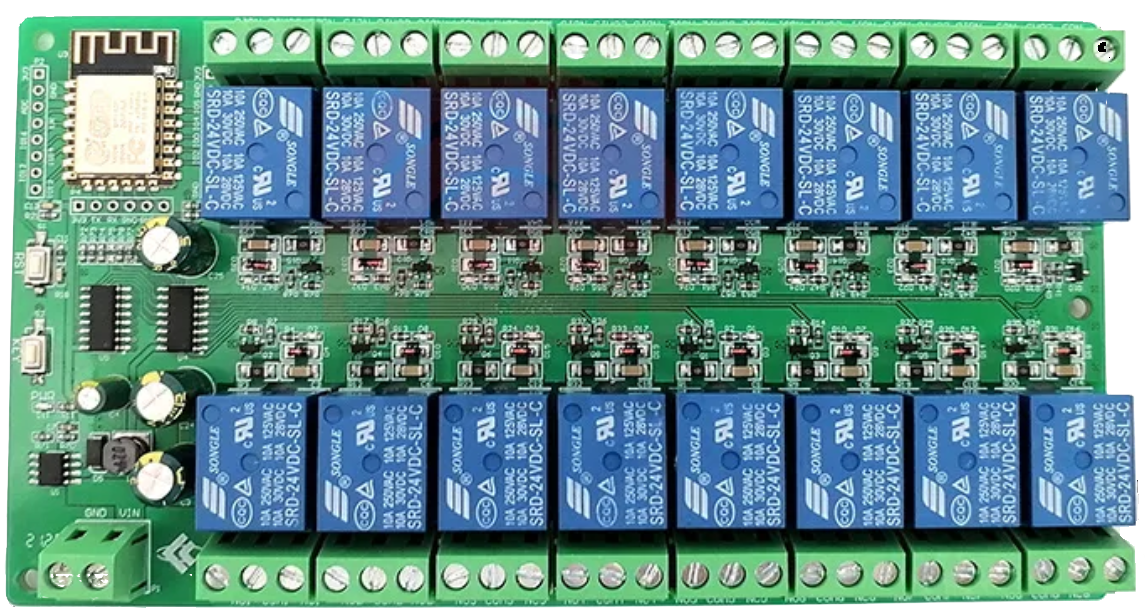
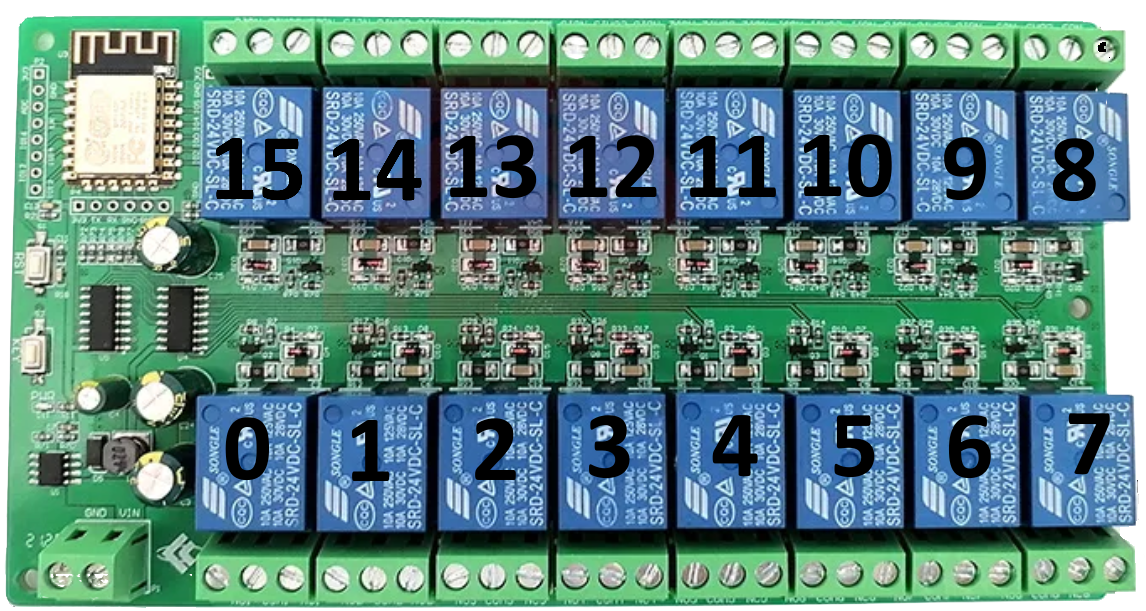
Updating readme, relais id's added and cleanup

diff --git a/esp12f/defaults.h b/esp12f/defaults.h
@@ -9,9 +9,9 @@ const uint8_t lift_count = 5;
 // Each lift uses 3 relais (up, down, lock).
 const uint8_t lifts[lift_count][3] = { {15,14,13},
                                        {12,11,10},
-                                       {9,8,6},
-                                       {5,4,3},
-                                       {2,1,0}
+                                       {9,8,7},
+                                       {6,5,4},
+                                       {3,2,1}
                                       };
 // Wifi connections
 // If you have more than one Wifi connection, change the 1 to the number of connections.

diff --git a/README.md b/README.md
@@ -15,6 +15,7 @@ My lifts came with an annoying keyswitch with bad placement. I removed them all,
   <img src="media/controlbox_outside.png" height="200">
 </p>
 
+This setup is just tested for that specific [relais board](#relaisboard--layout) but the settings are easily adaptable to interface with boards with more or less relais.
 
 ## Getting Started
 - Clone the repository and install all dependencies (Docker, [Arduino librarys](#dependencies)). 
@@ -22,14 +23,14 @@ My lifts came with an annoying keyswitch with bad placement. I removed them all,
 $ git clone https://github.com/git-eri/smart-lift.git
 ```
 - Copy the [defaults.h](esp12f/defaults.h) and rename the file to settings.h. Edit the [settings.h](#settingsh) to fit your needs.
-- Programm your controller board(s) with the sketch [esp12f.ino](esp12f/esp12f.ino) that is using your settings.
+- Programm your controller board(s) with the sketch [esp12f.ino](esp12f/esp12f.ino) using your own settings.
 - Run the [deploy.sh](deploy.sh) script
 ```bash
 $ cd smart-lift
 $ ./deploy.sh
 ```
-- The docker container should be up and running. Now you can turn on your programmed controllers and access the interface in your browser on port ```8000```
-
+- The docker container should be up and running. Now you can turn on your programmed controllers and access the interface in your browser on port ```8000```. You should see the lifts being addded to the interface as the controllers connect to the server.
+- If you reached this step, you may now figure out how to interface with your lift. My lift was controlled using a key switch which i just replaced with the box shown above and connected everything up. You could also use one controller with at least 3 relais for every lift.
 
 ## Development
 
@@ -39,7 +40,7 @@ $ ./deploy.sh
 - Python 3.10
 - Any Relais Board based on ESP8266
 
-Lint before commit!
+Linting before commit
 ```bash
 $ pylint app
 ```
@@ -55,12 +56,32 @@ For local testing
 $ cd app
 $ uvicorn app.main:app --host=0.0.0.0 --port=8000 --log-config=app/log_conf.yml
 ```
+Consider using the ```--reload``` flag for hot reloading with uvicorn.
 
 #### Development (Docker)
 
 ```bash
 $ cd app
 $ ./run-docker.sh
+```
+
+#### lift_info.json
+
+This file is used by the frontend so you can name your lifts. Change this file accordingly to your setup.
+
+```json
+{
+    "lifts": [
+        {
+            "id": 0,
+            "name": "Lift 1"
+        },
+        {
+            "id": 1,
+            "name": "Lift 2"
+        }
+    ]
+}
 ```
 
 ### Controller (ESP8266)
@@ -76,6 +97,9 @@ $ ./run-docker.sh
 - [ArduinoJson](https://arduinojson.org/)
 - [WebSockets](https://github.com/gilmaimon/ArduinoWebsockets)
 
+### Build & Upload
+
+Using the [ESP8266 board manager](https://arduino-esp8266.readthedocs.io/en/latest/installing.html), install the ESP8266 board. Then install the ArduinoJson and WebSockets librarys. Using the NodeMCU 1.0 (ESP-12E) board, upload the sketch [esp12f.ino](esp12f/esp12f.ino) to your controller.
 
 #### settings.h
 ```c
@@ -90,9 +114,9 @@ const uint8_t lift_count = 5;
 // Each lift uses 3 relais (up, down, lock).
 const uint8_t lifts[lift_count][3] = { {15,14,13},
                                        {12,11,10},
-                                       {9,8,6},
-                                       {5,4,3},
-                                       {2,1,0}
+                                       {9,8,7},
+                                       {6,5,4},
+                                       {3,2,1}
                                       };
 // Wifi connections
 // If you have more than one Wifi connection, change the 1 to the number of connections.
@@ -100,7 +124,20 @@ const String networks[1][4] = { {"SSID","Password","Server IP","Server Port (800
                                };
 ```
 
+### Known Issues
+- [ ] Sometimes the controller's websocket connection gets lost. This needs to be handled and fixed. Maybe a issue with the ESP8266Websockets library.
+- [ ] The mobile frontend has to act in a safe way when a controller get's disconnected. Currently if a controller gets disconnected, the disconnected lifts disappear and the ui will move to the other controller. If a button was held down at this time, the lift which is now shown will then move. This needs to be fixed. 
+  - Maybe leave the disconnected lifts but grey them out, and show a message so the button press is aborted. Then the lifts can be removed after a timeout.
+- [ ] The frontend doesn't sort the lifts by id. This needs to be fixed. Currently the lifts are sorted by the time the controller connected first.
 
 ### What needs to get tested?
 - [ ] Checks for invalid calls
 - [ ] Checks for leaks
+- [ ] Checks for invalid input
+- [ ] Checks for race conditions
+
+### What needs to get done?
+- [ ] Add monitoring (Prometheus, Grafana)
+- [ ] Add unit testing
+- [ ] Use secure websockets (wss)
+- [ ] Add Authorization (Let the controller check the authenticity of the server)
